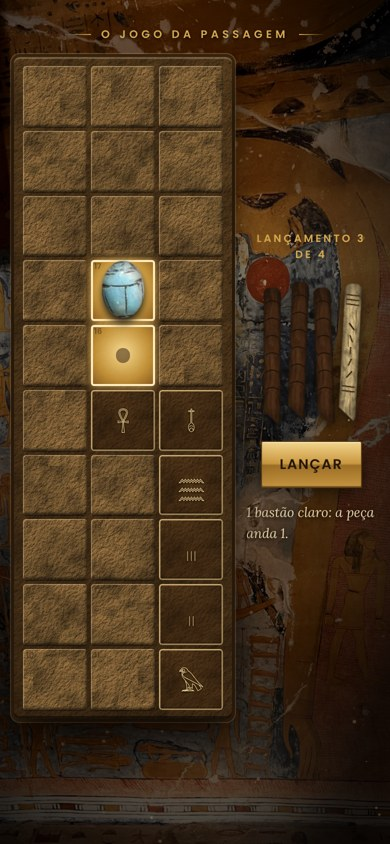
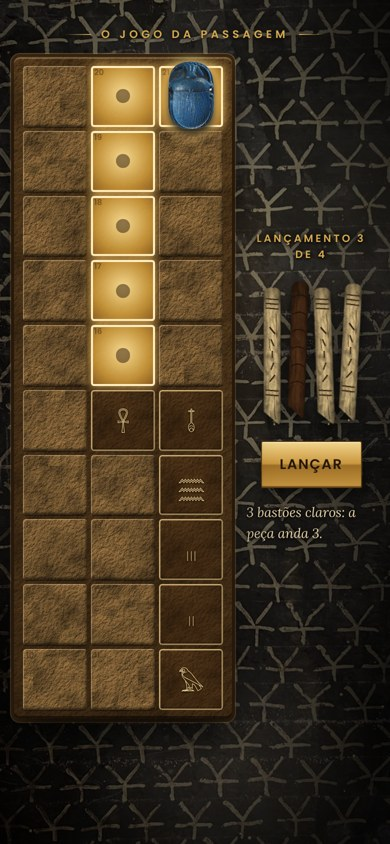
Egito: teto de estrelas de Nut (foto da Vivian) no fundo do tabuleiro do Senet
Claude-Session: https://claude.ai/code/session_017RJGScnowdndvDzY2p9N3m

diff --git a/APP CARAVANA EGITO/app/oraculo.html b/APP CARAVANA EGITO/app/oraculo.html
@@ -88,7 +88,8 @@ p{margin:0}
 
 
 /* 3. O SENET: tabuleiro de bronze envelhecido, em pé, sobre fundo escuro limpo (estilo da moeda da caravana) */
-#senetCena .foto{background:url(img/fundo-nut-sol.webp) center/cover #0E0905;inset:0;filter:brightness(.55) saturate(.9) contrast(1.05)}
+#senetCena .foto{background:url(img/fundo-ceu-nut-estrelas.webp) center/cover #0E0905;inset:0;filter:brightness(.42) sepia(.2)}
+#senetCena .lado .txt,#senetCena .contador{text-shadow:0 0 6px #000,0 0 12px #000,0 1px 2px #000}
 #senetCena .sombra{background:radial-gradient(ellipse 60% 45% at 38% 38%,rgba(255,170,80,.18),transparent 65%),radial-gradient(ellipse at 40% 40%,transparent 35%,rgba(0,0,0,.88) 85%);animation:tremeluz 3.2s ease-in-out infinite}
 @keyframes tremeluz{0%,100%{opacity:1}30%{opacity:.86}55%{opacity:.97}75%{opacity:.82}}
 .rolar{position:absolute;inset:0;overflow:auto;display:flex;flex-direction:column;align-items:center;gap:14px;padding:max(26px,env(safe-area-inset-top)) 14px max(30px,env(safe-area-inset-bottom));z-index:7}
